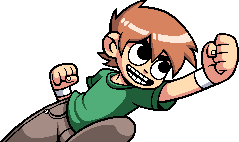
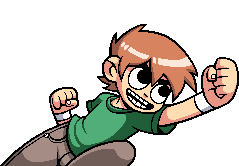
added all dibugitos

diff --git a/pyday_rafaela2012/peewee/slides.rst b/pyday_rafaela2012/peewee/slides.rst
@@ -37,8 +37,9 @@ Al principio
       que escribi esto.
     * **De todas maneras: estamos de acuerdo que los datos son lo importante?.**
 
-    .. image:: img/Scott-Pilgrim1.png
-        :scale: 100 %
+.. image:: img/Scott-Pilgrim1.png
+    :scale: 100 %
+    :align: center
 
 
 Python + RDBMS
@@ -191,6 +192,9 @@ Creamos registros
     u2 = User(name="Scott Pilgrim", age=23)
     u2.save()
 
+.. image:: img/05.jpeg
+    :align: center
+    :scale: 300 %
 
 Queries 1
 ---------
@@ -242,6 +246,8 @@ Queries 2
     Con ID=1
     <User: u'Ramona Flowers'>
 
+.. image:: img/01.jpeg
+    :align: right
 
 Queries 3
 ---------
@@ -266,6 +272,9 @@ Queries 3
     Con nombre 'Stephen Stills'
     <User: u'Stephen Stills'>
 
+.. image:: img/02.gif
+    :align: center
+    :scale: 200 %
 
 Queries 4
 ---------
@@ -311,6 +320,9 @@ Queries 5
     <User: u'Stephen Stills'>
     <User: u'Scott Pilgrim'>
 
+.. image:: img/03.png
+    :align: center
+    :scale: 75 %
 
 Queries 6 (Entran los autos)
 ----------------------------
@@ -350,6 +362,10 @@ Queries 7
 
     Cantidad de autos de personas con 24 años
     1
+
+.. image:: img/04.jpg
+    :align: center
+    :scale: 200 %
 
 
 Queries 8
@@ -422,6 +438,10 @@ Cosas en el tintero
         - Source: https://bitbucket.org/leliel12/talks/src
     - Contacto:
         - Juan B Cabral <`jbc.develop@gmail.com <mailto:jbc.develop@gmail.com>`_> / @JuanBCabral
+
+.. image:: img/ko.png
+    :align: center
+    :scale: 30 %
 
 
 .. footer::
